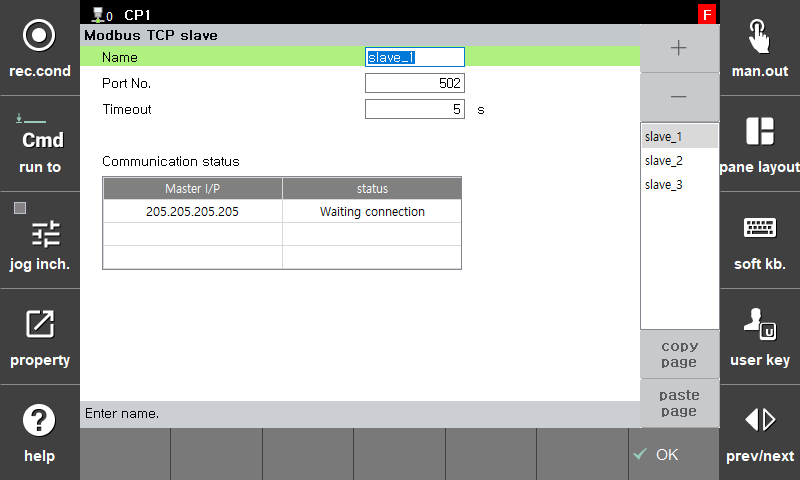
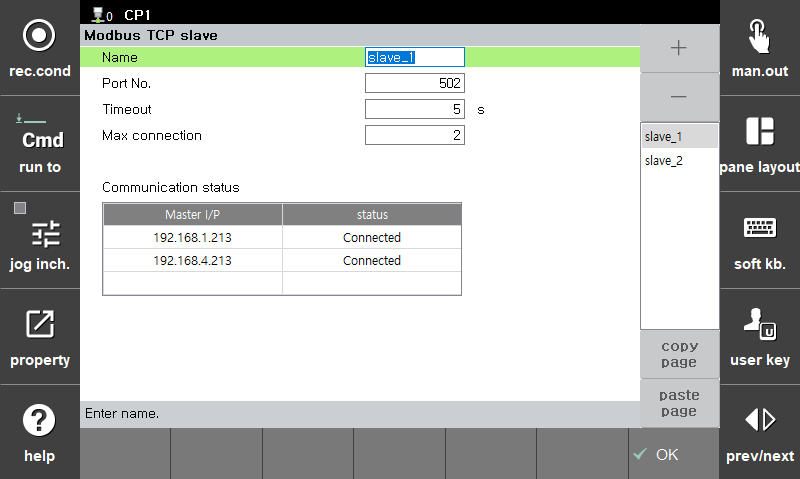
슬래이브 최대 연결 내용 추가

diff --git a/1-intro/2-modbus-func.md b/1-intro/2-modbus-func.md
@@ -42,6 +42,19 @@ The Hi6 robot controller supports the Modbus master and slave functions via seri
 
 ![](../_assets/image30.png)
 
+*   **Port No.**
+
+    Sets the port for MODBUS TCP communication. Each slave must be set to a different port number.
+
+
+*   **Timeout**
+
+    Sets the time to check the MODBUS TCP communication connection status.
+
+
+*   **Max connection**
+
+    Sets the maximum number of connections for the master that can be connected to each slave. Currently, you can get up to three.
 
 
 ### <mark style="color:green;">5. Transmission mode</mark>
